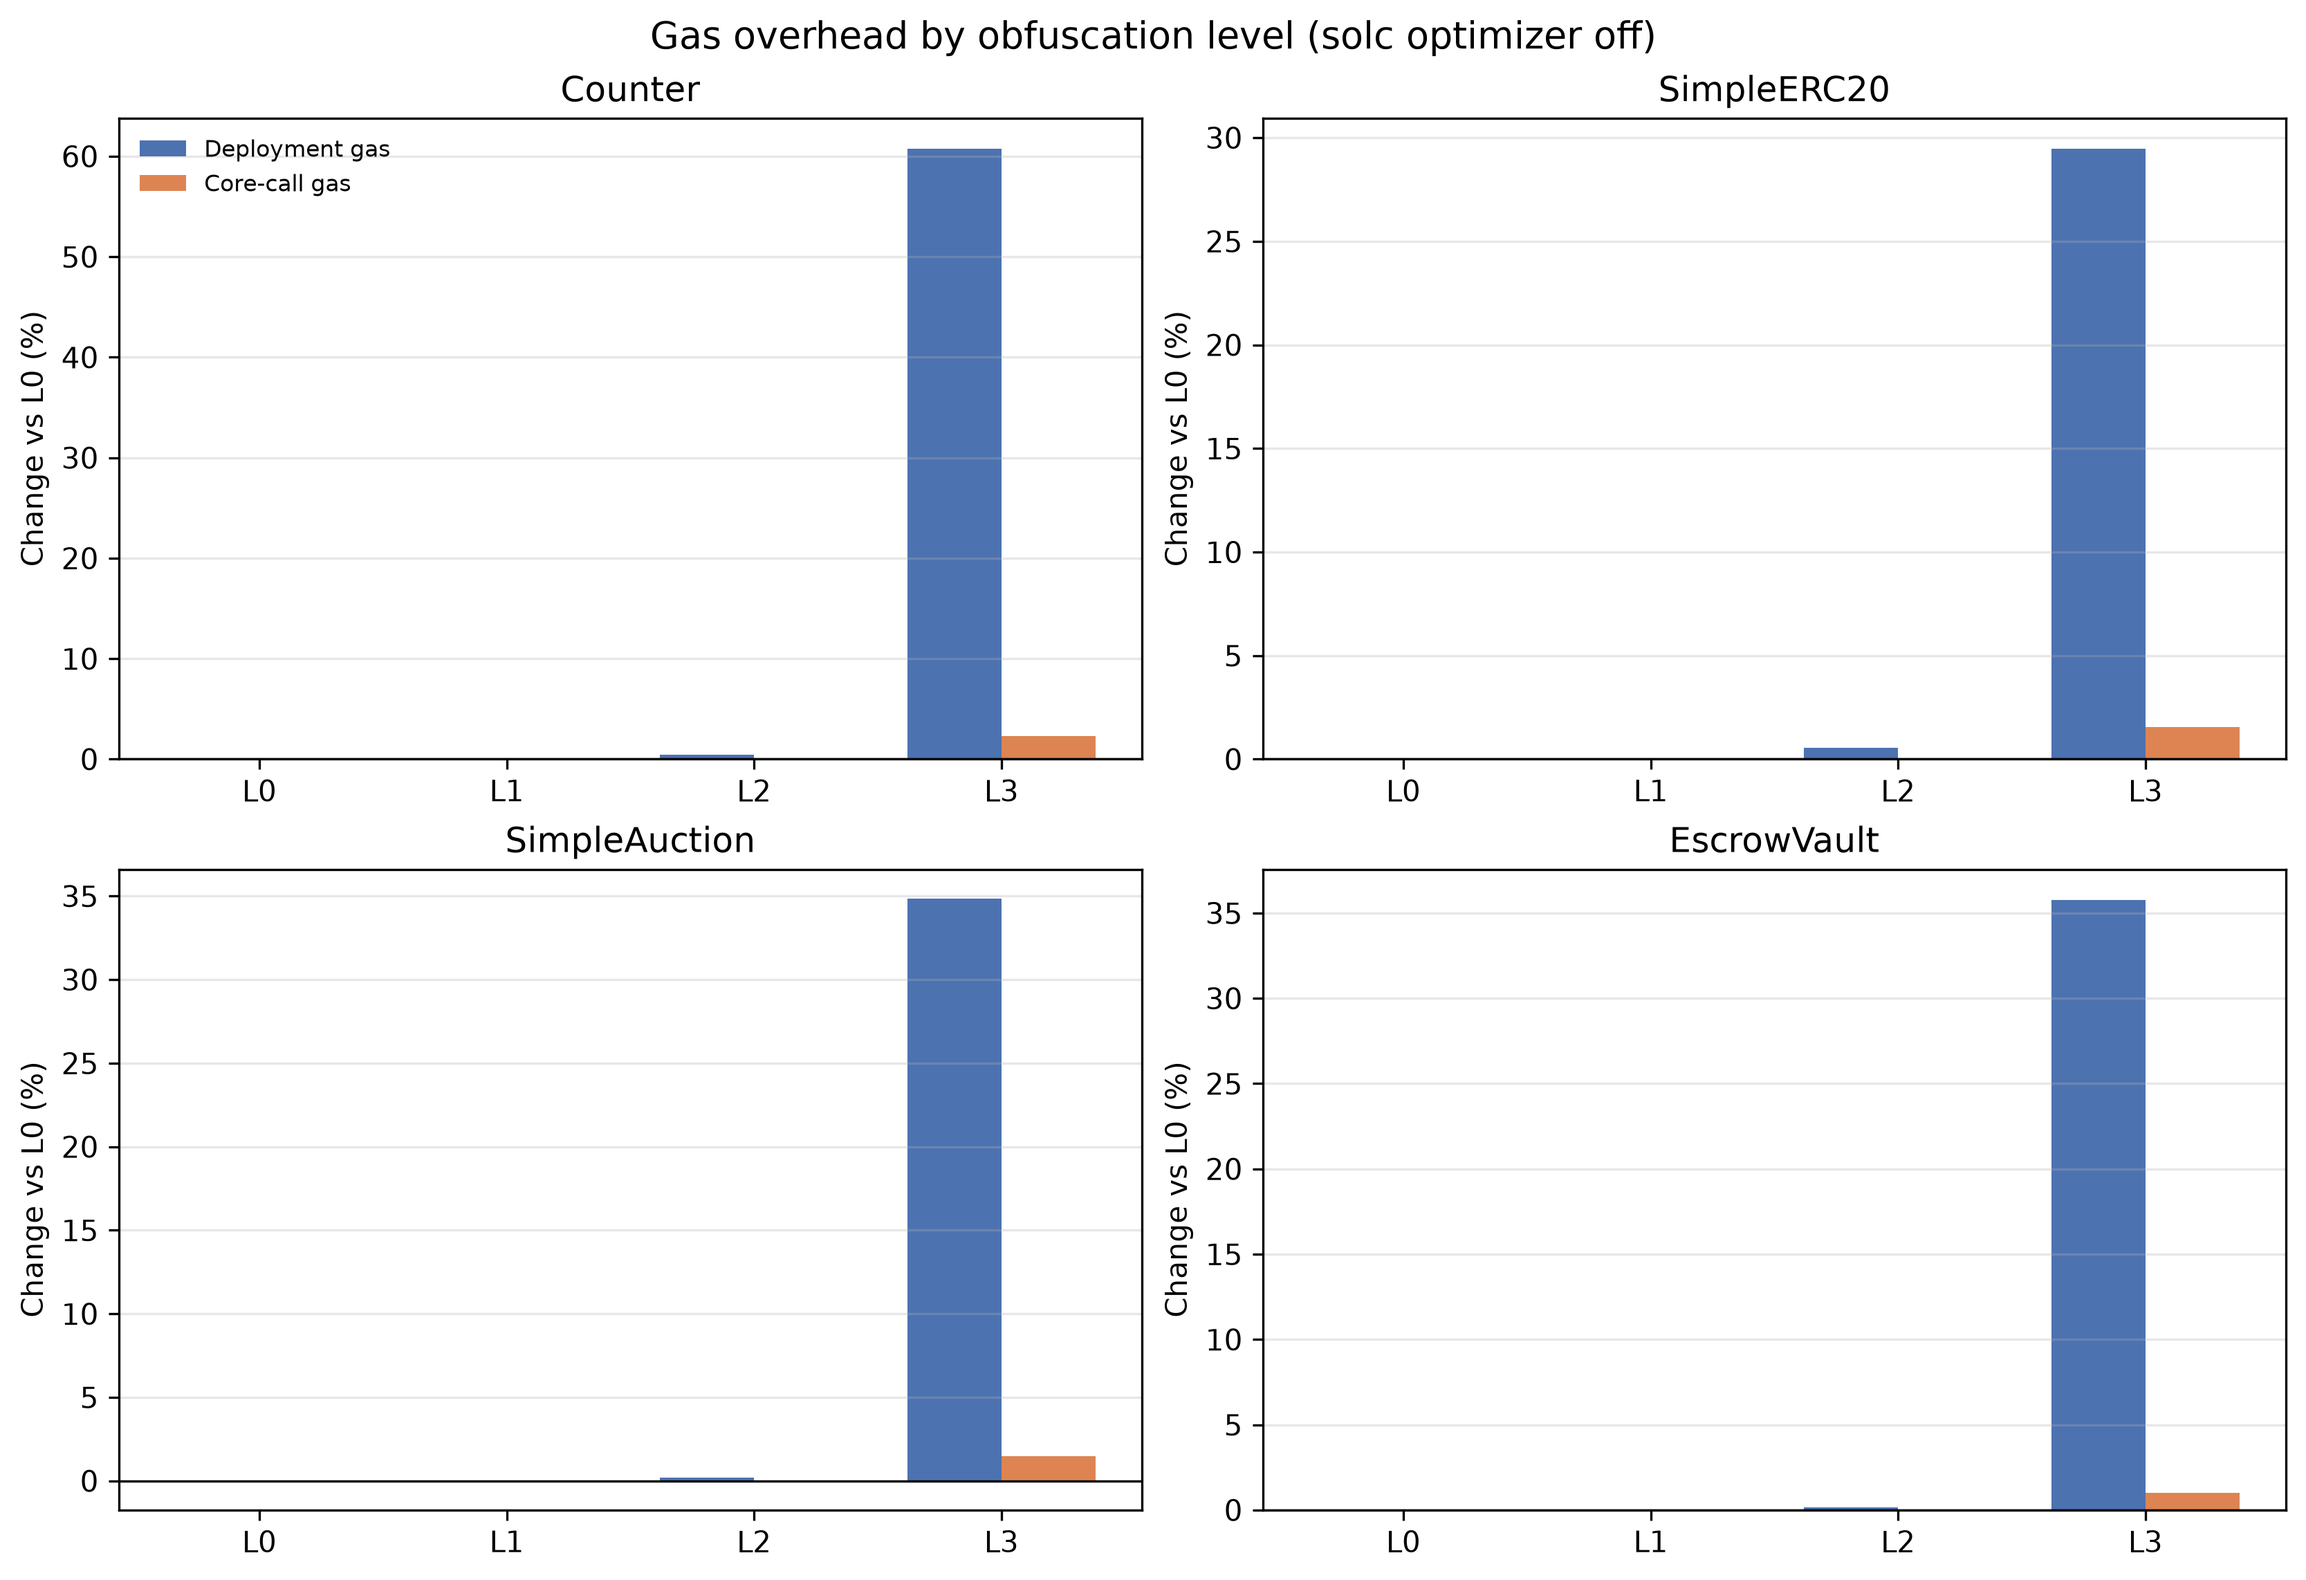
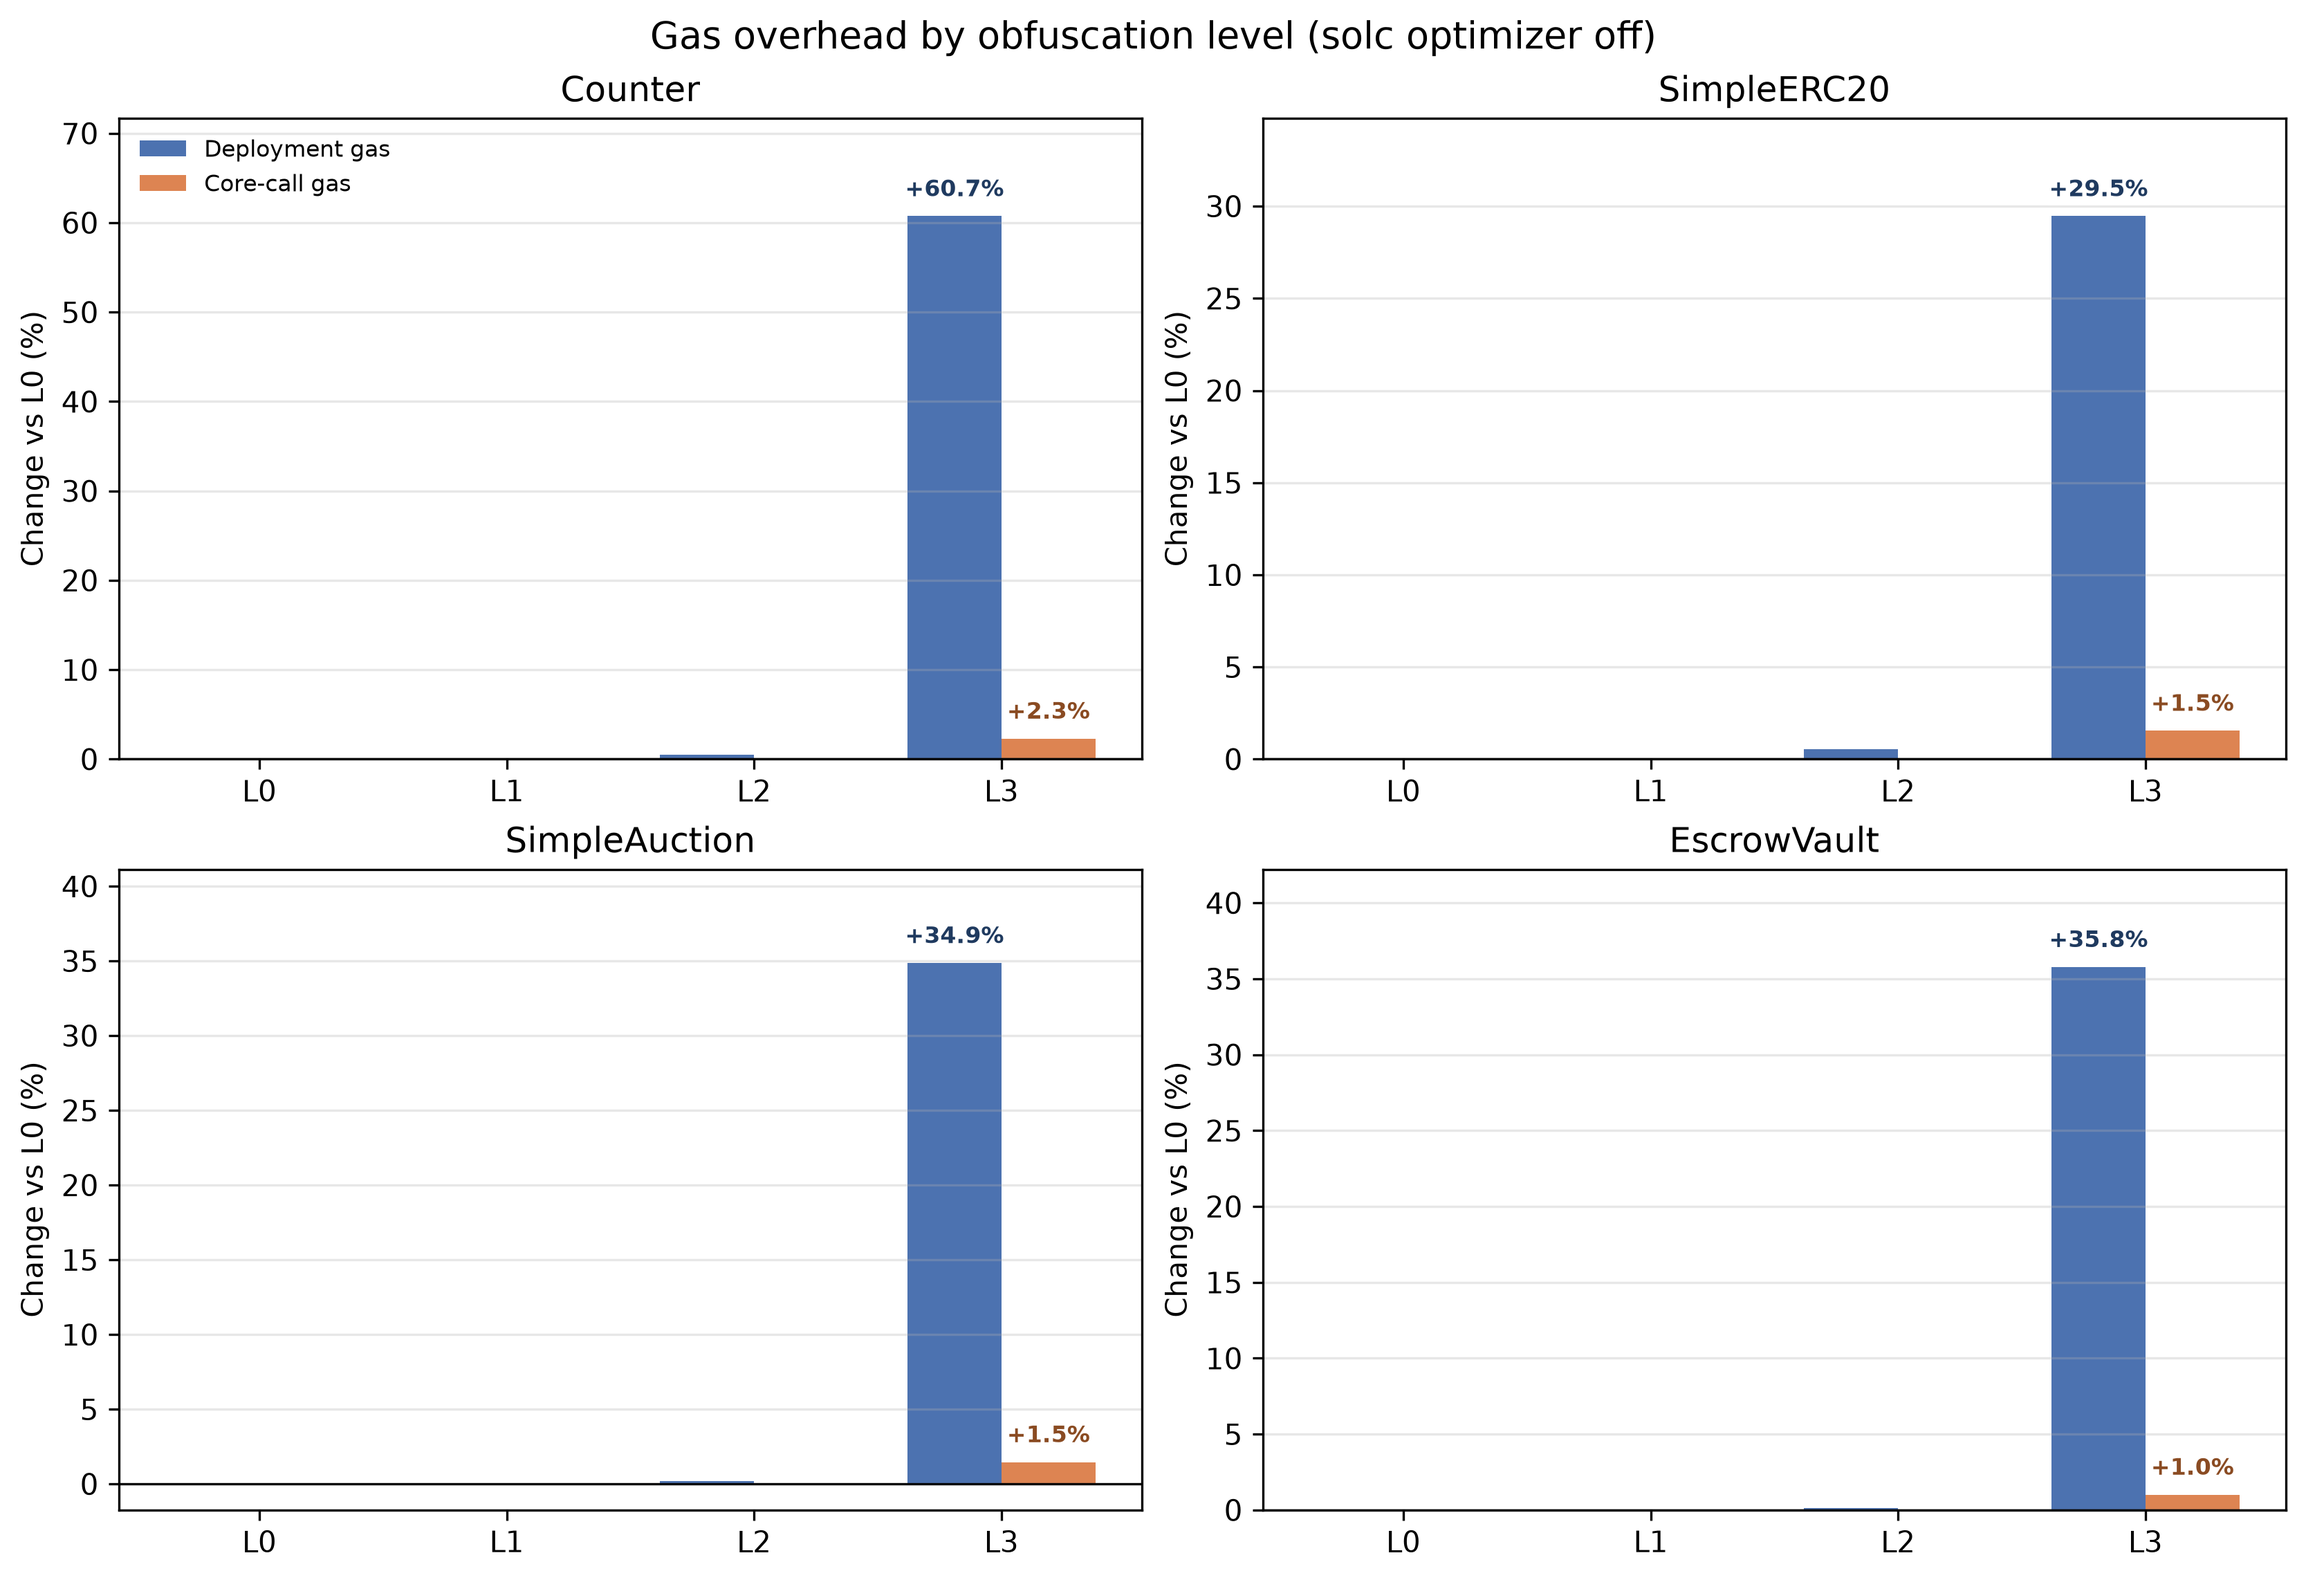
docs(chart): align control.py docstring with the revert guard and label L3 gas bars
- obf/passes/control.py: the module docstring no longer claims dead code "never calls
  revert/assert". It now says the code never writes state, never emits events, and its
  revert() guard is strictly unreachable at runtime, which matches the optimizer-proof
  dead branch added in the previous commit.
- eval/plot_charts.py: chart_gas_overhead annotates the Level 3 deployment and core-call
  bars with their percentages and adds 18% headroom. Level 3 deploy gas grows 29-61%
  while core-call gas grows only 1.0-2.3%, so on a projector the orange bar was
  indistinguishable from the 0% baseline; the two labels make the trade-off explicit.
- Regenerated eval/output/fig1_gas_overhead.png.

Verification: pytest tests/ -> 116 passed; the chart was rendered and visually checked
(labels sit above the bars without overlapping the axes or the legend).

diff --git a/eval/plot_charts.py b/eval/plot_charts.py
@@ -84,14 +84,39 @@ def chart_gas_overhead(data) -> None:
     for axis, contract in zip(axes.flat, CONTRACTS):
         deploy = [data[(contract, level, "off")]["deploy_gas_delta_pct"] for level in LEVELS]
         calls = [data[(contract, level, "off")]["avg_exec_gas_delta_pct"] for level in LEVELS]
-        axis.bar([p - width / 2 for p in positions], deploy, width, color="#4c72b0", label="Deployment gas")
-        axis.bar([p + width / 2 for p in positions], calls, width, color="#dd8452", label="Core-call gas")
+        deploy_bars = axis.bar(
+            [p - width / 2 for p in positions], deploy, width, color="#4c72b0", label="Deployment gas"
+        )
+        call_bars = axis.bar(
+            [p + width / 2 for p in positions], calls, width, color="#dd8452", label="Core-call gas"
+        )
         axis.axhline(0.0, color="black", linewidth=0.8)
         axis.set_xticks(positions)
         axis.set_xticklabels(LEVELS)
         axis.set_title(contract)
         axis.set_ylabel("Change vs L0 (%)")
         axis.grid(axis="y", alpha=0.3)
+
+        # Level 3 dominates the axis, which makes the call-gas bar hard to read on a
+        # projector. Label both L3 bars at their heads so the deploy/call contrast is
+        # legible without a second y-axis.
+        for bar, value, color in (
+            (deploy_bars[-1], deploy[-1], "#1f3a5f"),
+            (call_bars[-1], calls[-1], "#8a4b22"),
+        ):
+            axis.annotate(
+                f"{value:+.1f}%",
+                (bar.get_x() + bar.get_width() / 2, value),
+                textcoords="offset points",
+                xytext=(0, 5),
+                ha="center",
+                va="bottom",
+                fontsize=8,
+                fontweight="bold",
+                color=color,
+                bbox=dict(boxstyle="round,pad=0.15", facecolor="white", edgecolor="none", alpha=0.85),
+            )
+        axis.set_ylim(top=max(deploy) * 1.18)
 
     axes[0, 0].legend(loc="upper left", fontsize=8, frameon=False)
     figure.suptitle("Gas overhead by obfuscation level (solc optimizer off)", fontsize=13)

diff --git a/obf/passes/control.py b/obf/passes/control.py
@@ -21,7 +21,7 @@ Red lines enforced here:
   and keeping the risk of "Stack too deep" at bay.
 
 Injected dead code only declares and recomputes a local ``uint256``: it never writes
-state, never calls ``revert``/``assert`` and never emits events.
+state, never emits events, and its ``revert()`` guard is strictly unreachable at runtime.
 """
 
 from __future__ import annotations
